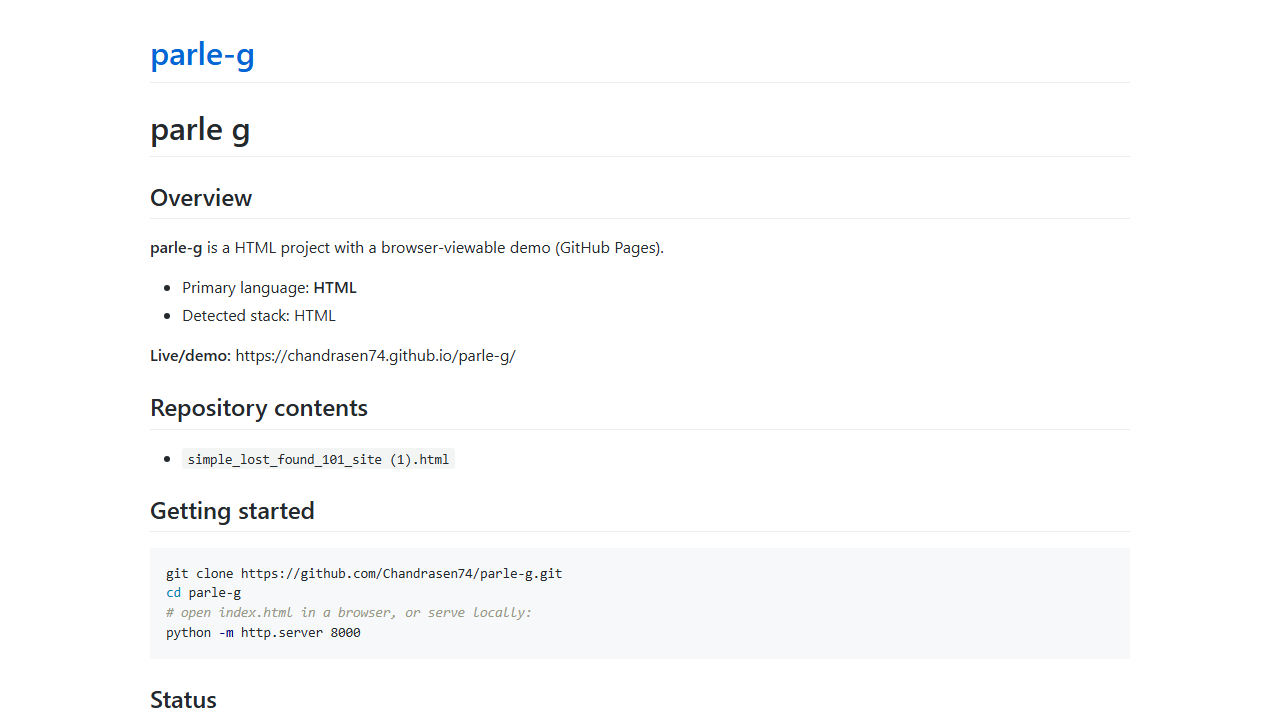
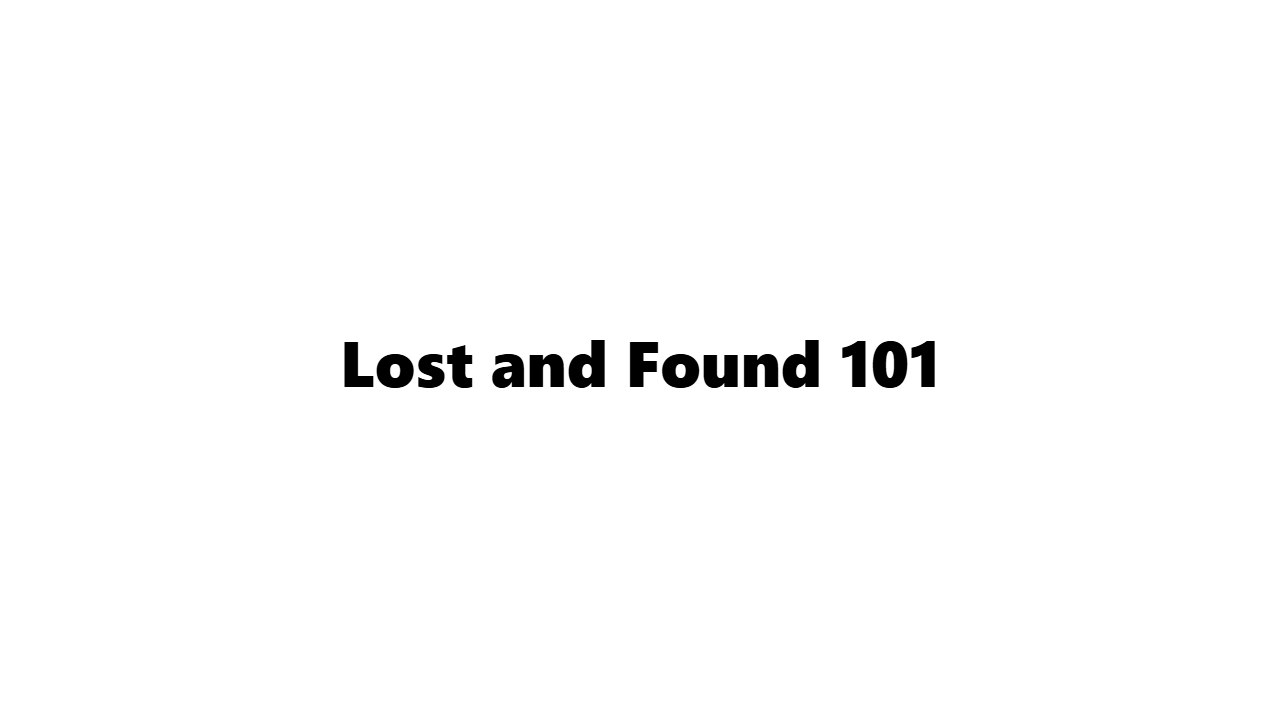
fix: add Pages entry/.nojekyll and refresh screenshot/README

diff --git a/index.html b/index.html
@@ -1,0 +1,3 @@
+<!DOCTYPE html>
+<html lang="en"><head><meta charset="utf-8"><meta http-equiv="refresh" content="0; url=simple_lost_found_101_site%20(1).html"><meta name="viewport" content="width=device-width, initial-scale=1"><title>Redirecting</title></head>
+<body><p>Redirecting to <a href="simple_lost_found_101_site%20(1).html">simple_lost_found_101_site (1).html</a>...</p><script>location.replace("simple_lost_found_101_site%20(1).html");</script></body></html>

diff --git a/README.md b/README.md
@@ -10,6 +10,8 @@
 - **Primary language:** HTML
 - **Languages detected:** HTML
 - **Stack/tech:** HTML
+- **Entry point:** `index.html`
+- **Key files:** `index.html`
 
 ## Language & stack details
 - Languages: HTML
@@ -33,7 +35,9 @@ python -m http.server 8000
 ```
 
 ## Repository structure (top-level/sample)
+- `.nojekyll`
 - `README.md`
+- `index.html`
 - `screenshot.png`
 - `simple_lost_found_101_site (1).html`
 
